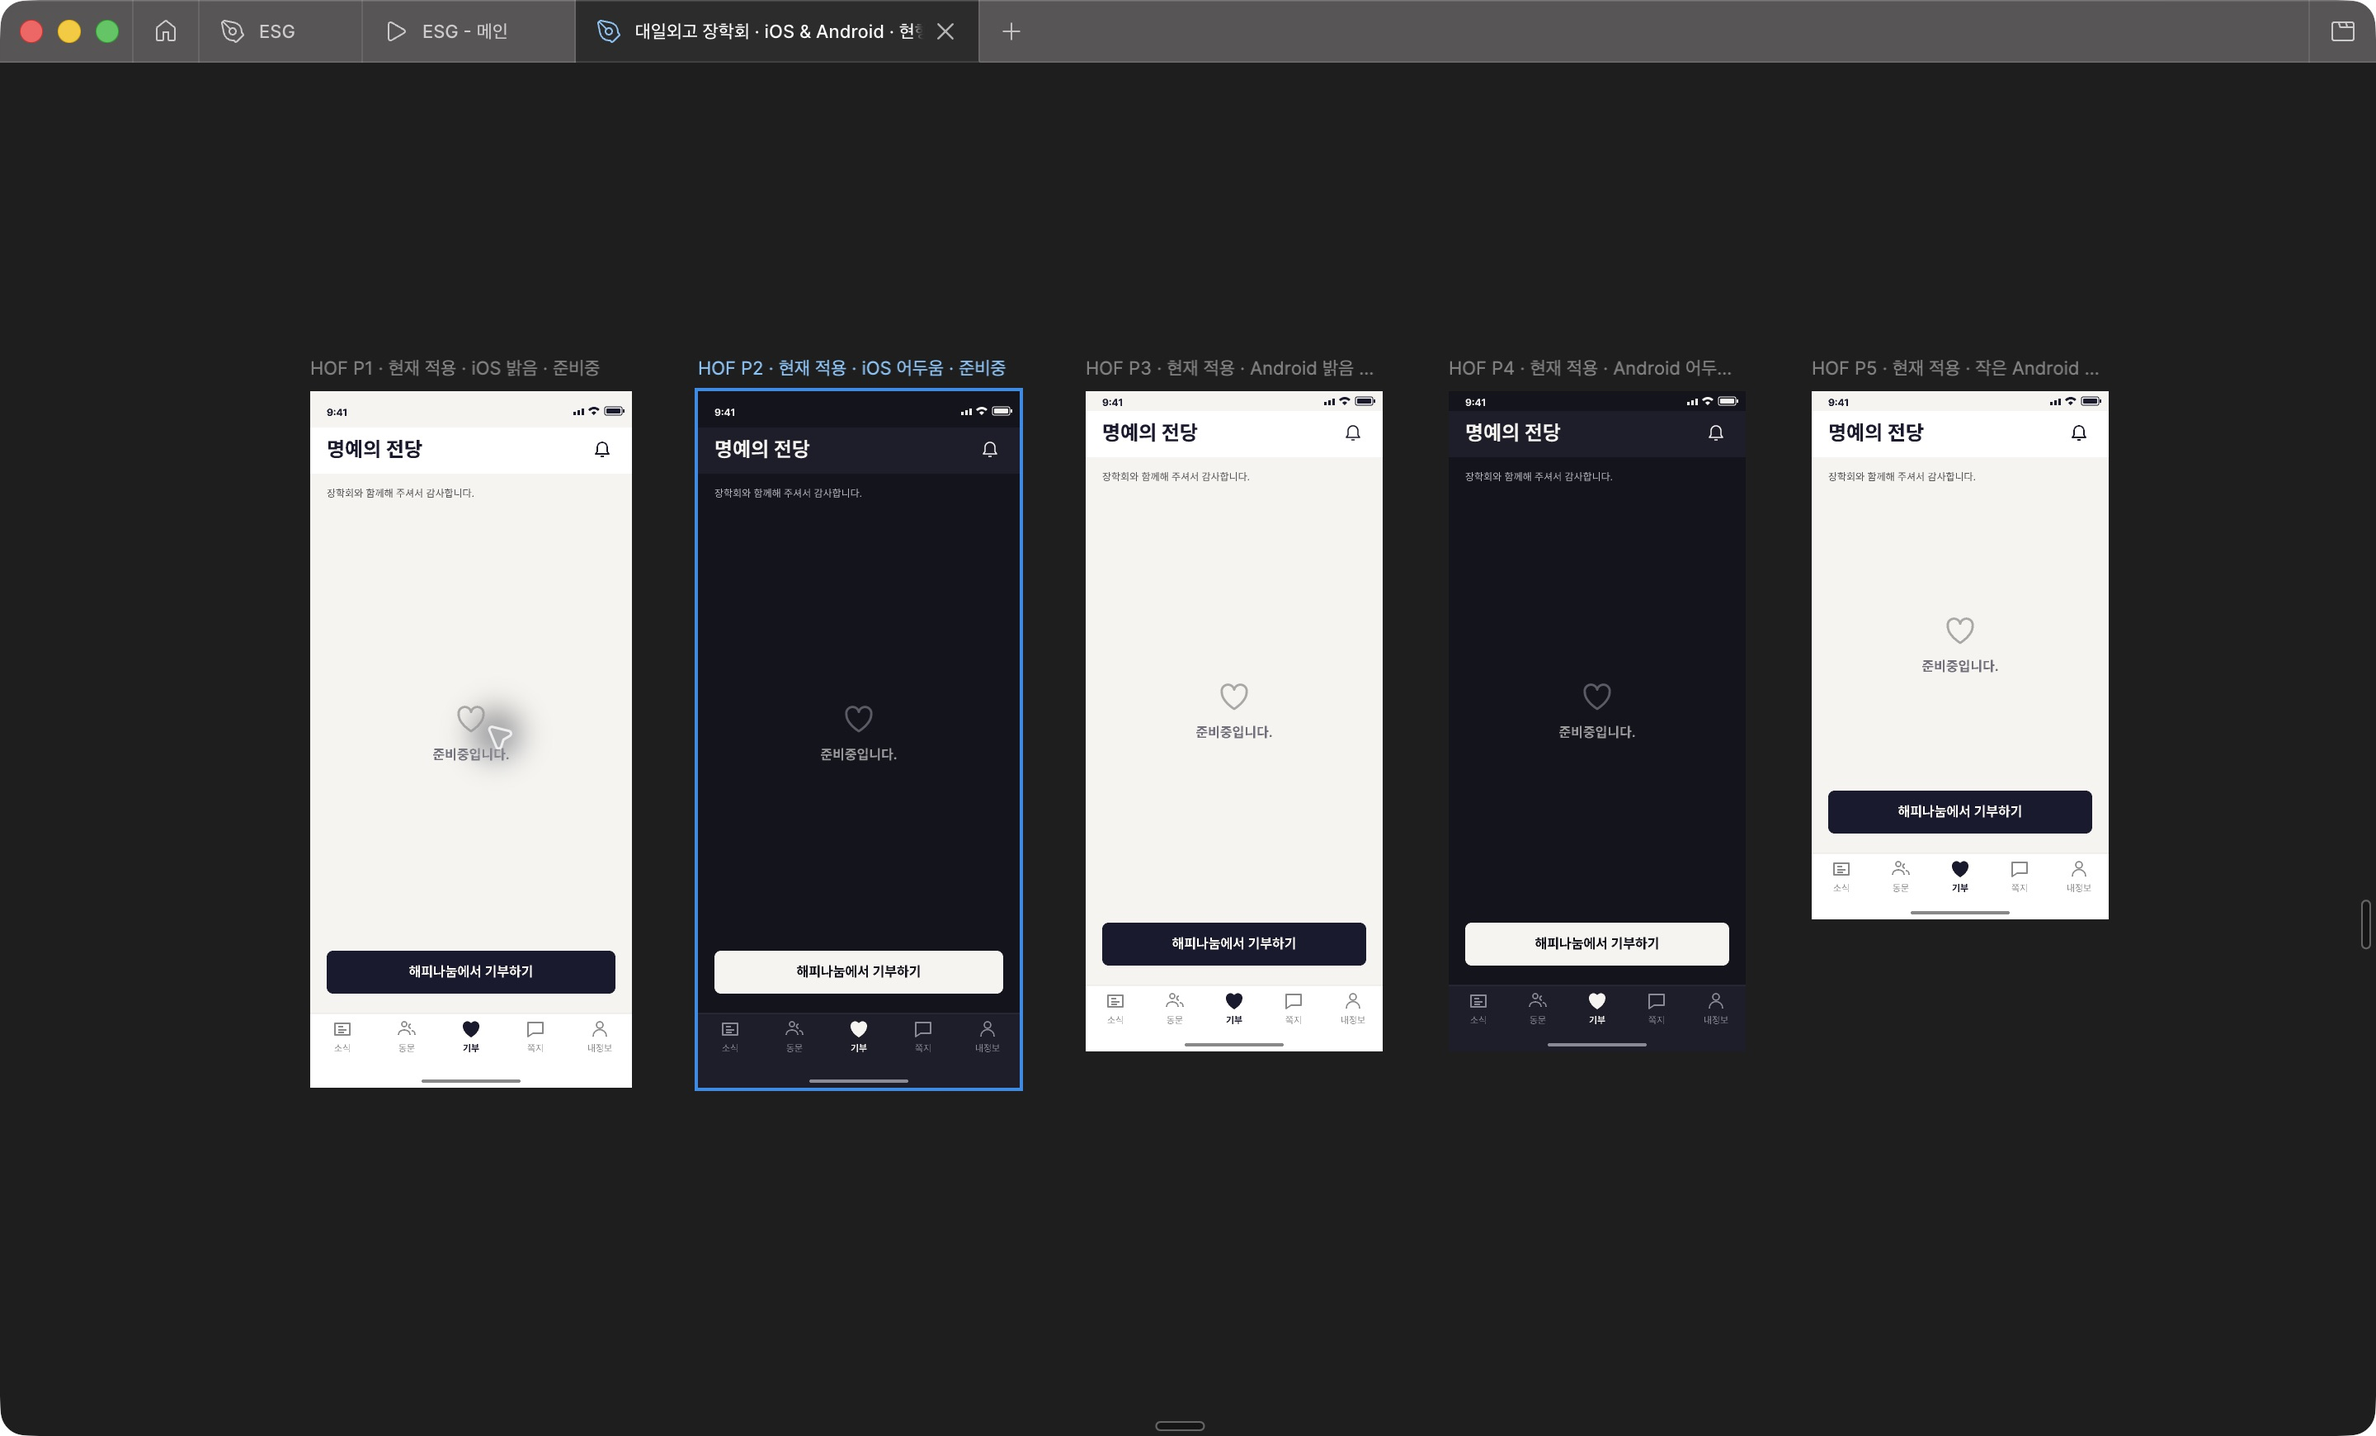
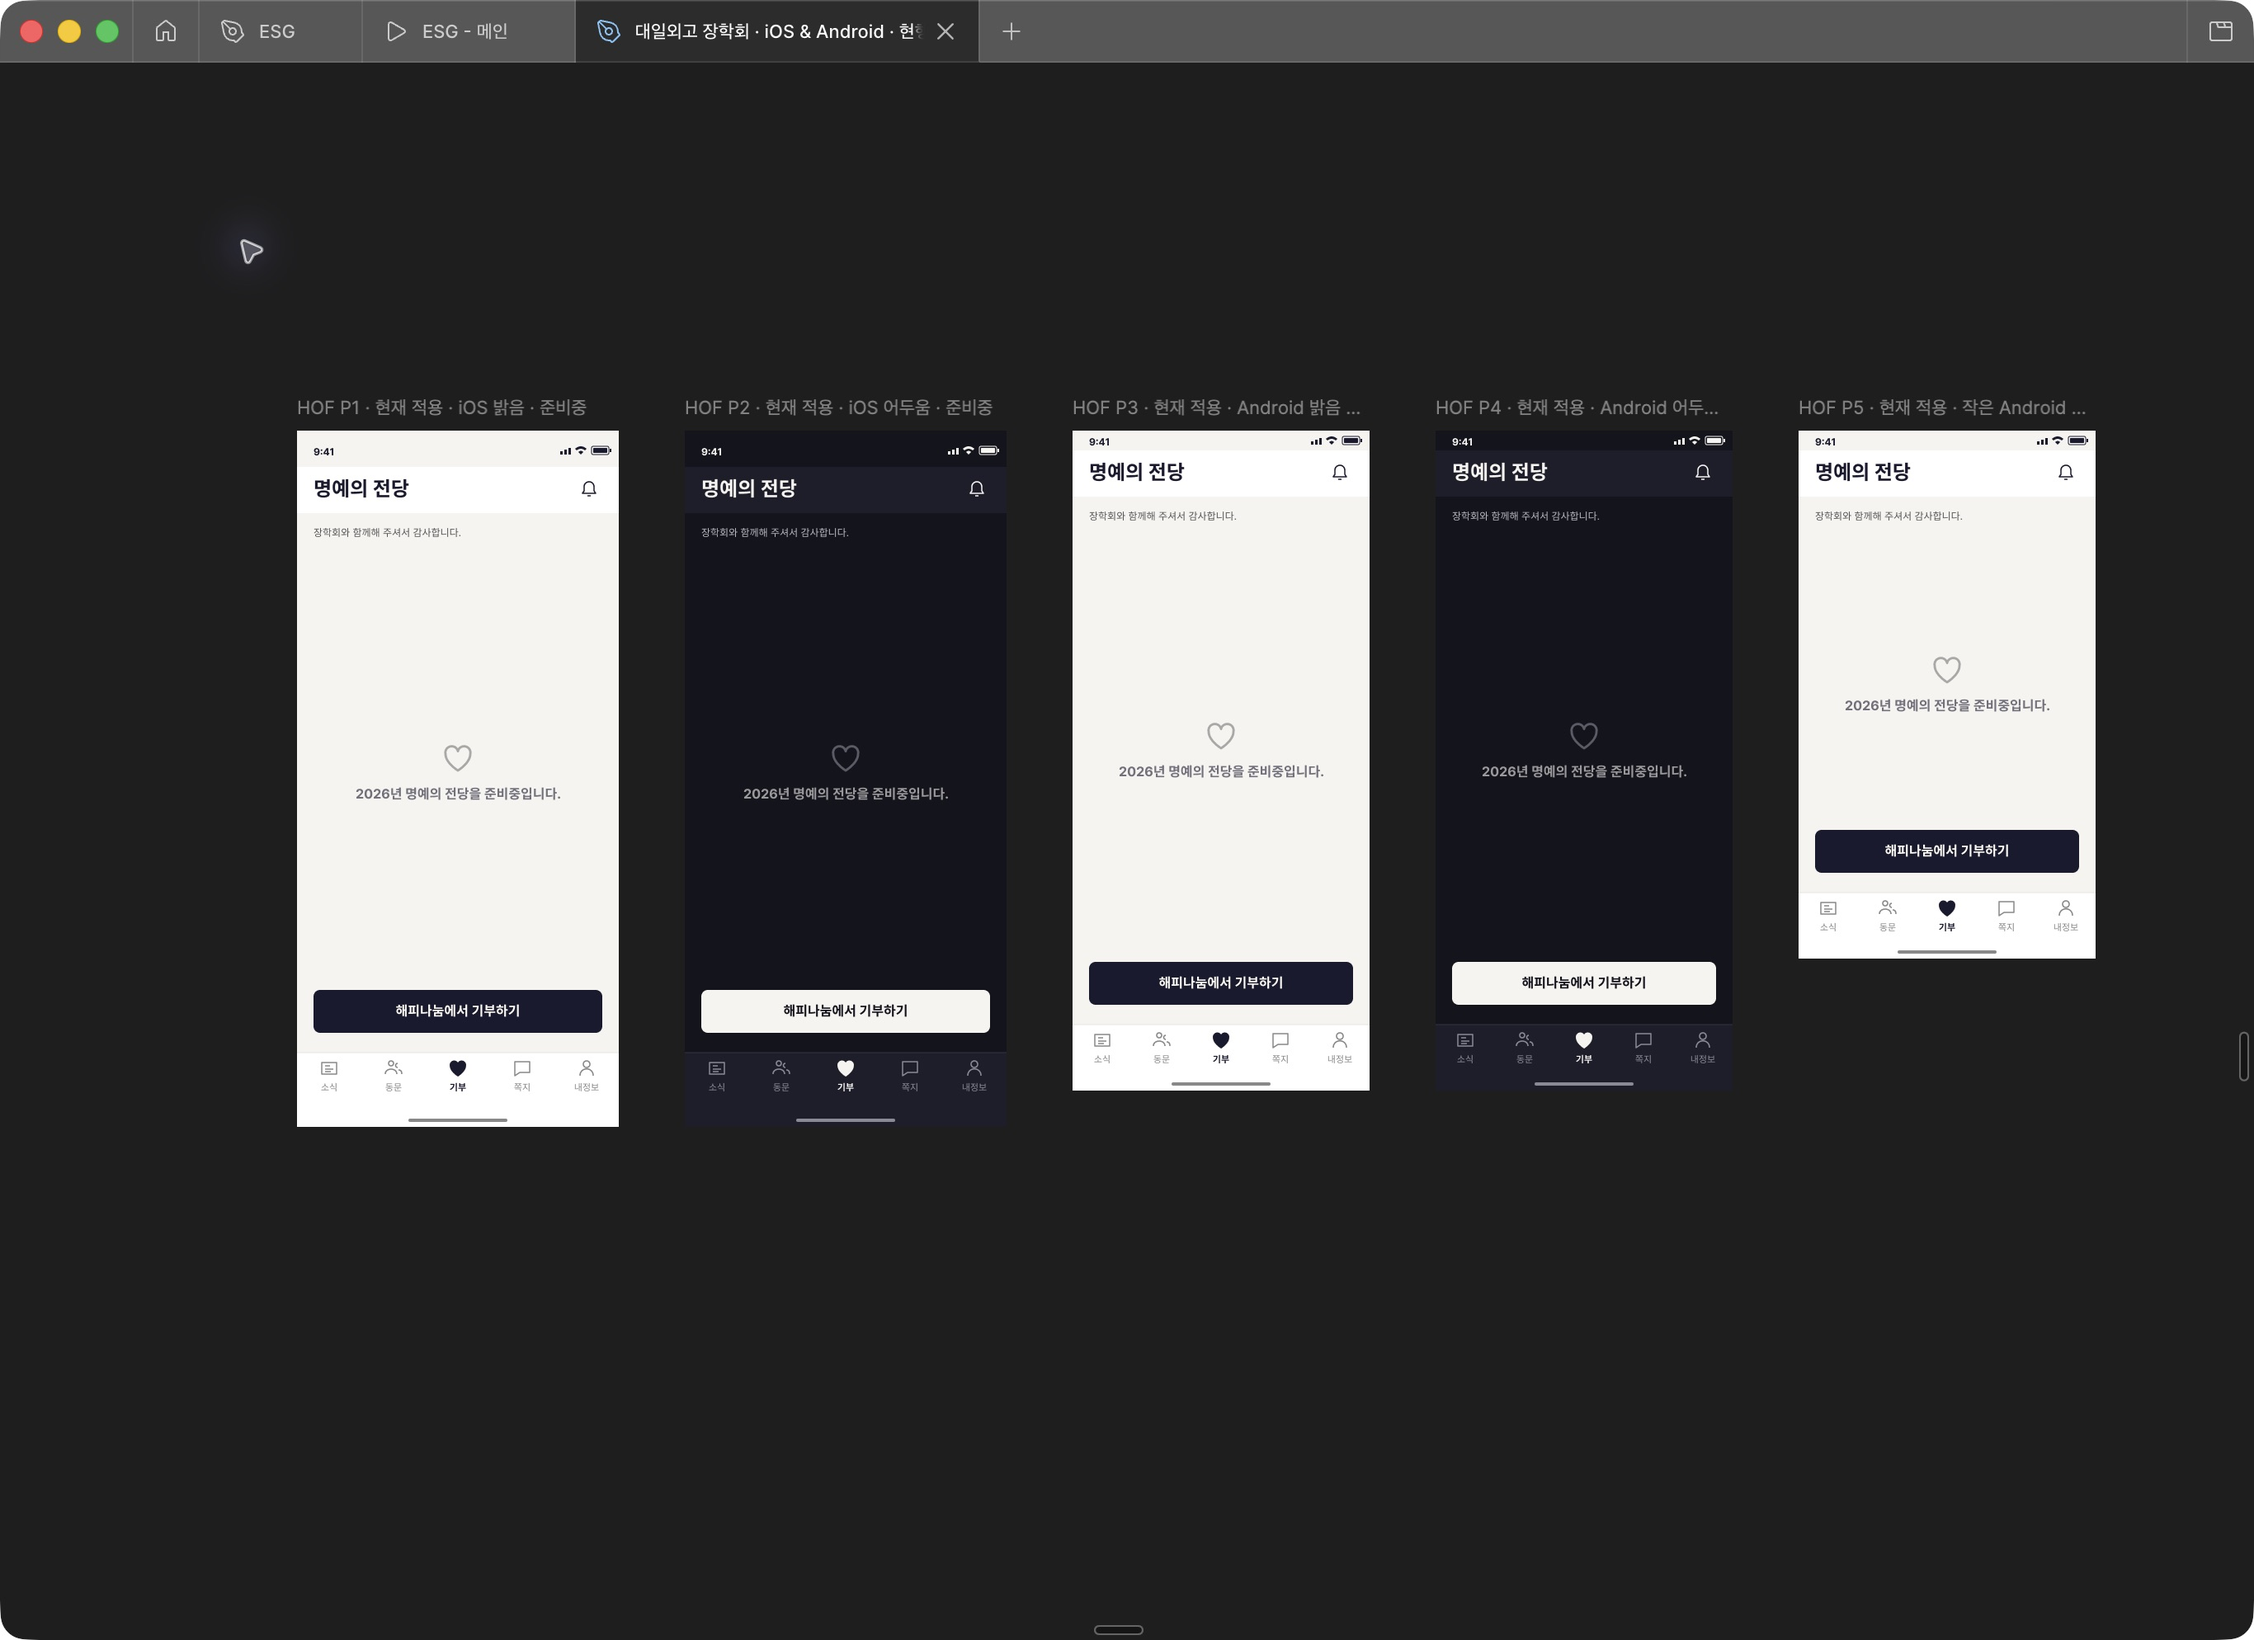
design(donation): specify 2026 notice and restrained heartbeat

Changed region(s): [[0.1245, 0.2483, 0.9334, 0.7759], [0.0, 0.0, 1.0, 0.0621], [0.9956, 0.6207, 1.0, 0.6517]]

diff --git a/design-system/platform/ios/DesignTokens.swift b/design-system/platform/ios/DesignTokens.swift
@@ -413,6 +413,8 @@ public enum DSLayout {
   public static let feedPostCardRadius: CGFloat = 18
   public static let feedPostDetailSectionSpacing: CGFloat = 10
   public static let feedPostDetailSpacing: CGFloat = 16
+  public static let hallHeartbeatFirstAmplitude: CGFloat = 0.06
+  public static let hallHeartbeatSecondAmplitude: CGFloat = 0.035
   public static let messageBubbleMaxWidthRatio: CGFloat = 0.76
   public static let navigationMotionEasingX1: CGFloat = 0.25
   public static let navigationMotionEasingX2: CGFloat = 0.3

diff --git a/design-system/platform/android/DesignTokens.kt b/design-system/platform/android/DesignTokens.kt
@@ -349,6 +349,8 @@ object DesignTokens {
         val feedPostCardRadius = 18.dp
         val feedPostDetailSectionSpacing = 10.dp
         val feedPostDetailSpacing = 16.dp
+        val hallHeartbeatFirstAmplitude = 0.06f
+        val hallHeartbeatSecondAmplitude = 0.035f
         val messageBubbleMaxWidthRatio = 0.76f
         val navigationMotionEasingX1 = 0.25f
         val navigationMotionEasingX2 = 0.3f

diff --git a/design-system/platform/web/design-tokens.css b/design-system/platform/web/design-tokens.css
@@ -260,6 +260,8 @@
   --layout-feed-post-card-radius: 18px;
   --layout-feed-post-detail-section-spacing: 10px;
   --layout-feed-post-detail-spacing: 16px;
+  --layout-hall-heartbeat-first-amplitude: 0.06;
+  --layout-hall-heartbeat-second-amplitude: 0.035;
   --layout-message-bubble-max-width-ratio: 0.76;
   --layout-navigation-motion-easing-x1: 0.25;
   --layout-navigation-motion-easing-x2: 0.3;

diff --git a/design-system/verification/hall-of-fame/README.md b/design-system/verification/hall-of-fame/README.md
@@ -2,10 +2,14 @@
 
 실제 후원자 데이터가 준비될 때까지 두 네이티브 앱은 공통 스타일의 준비중 상태를 표시한다.
 준비중 아이콘과 문구는 공통 mutedIcon 불투명도 60%로 흐리게 표시한다.
+안내 문구는 `2026년 명예의 전당을 준비중입니다.`이다.
+하트만 2.45초 주기로 6%, 3.5%의 두 번 박동을 반복한다. 문구와 CTA는 움직이지 않는다.
+동작 줄이기/애니메이션 제거 설정 또는 앱 비활성 상태에서는 박동을 멈춘다.
 기부 탭 이름, 알림, 기존 해피나눔 CTA를 유지한다. 버튼은 내비게이션 위에 고정한다.
 
 - [Figma · 현재 적용 시안 5종](https://www.figma.com/design/6XaX36E3p7uGWo0WMNYzX1/?node-id=79-8950)
 - [Figma 화면 비교](figma-preparing.png)
+- [iOS 실제 하트 박동 영상](ios-heartbeat.mp4): 실제 시뮬레이터 캡처. 하트의 크기 변화만 적용됐으며 문구는 고정돼 있다.
 - [iOS 밝음](ios-light.png), [iOS 어두움](ios-dark.png): Codex iPhone 15, iOS 26.0, visual fixture의 기부 탭.
 - [Android 밝음](android-light-360x640-layout-before-dimming.png), [Android 어두움](android-dark-360x640-layout-before-dimming.png): API 36, 360×640, 실제 공통 내비게이션을 사용한 Compose 검증 호스트의 dimming 이전 배치 검증 캡처. 최종 불투명도는 Figma와 iOS 캡처를 참고한다.
 
@@ -16,6 +20,9 @@ Figma의 P1–P5는 현재 프로젝트 토큰을 따른다: 공통 배경, 24pt
 검증:
 
 - iOS Simulator Debug `xcodebuild build`: 통과.
+- 최종 2026 안내 문구와 하트 박동을 포함한 iOS/Android Debug 빌드: 통과.
+- iOS 밝음/어두움 최종 캡처: 긴 문구와 CTA가 잘리거나 하단 탭에 겹치지 않음을 확인.
+- 실제 iOS 박동 영상의 157개 프레임에서 하트 픽셀 너비 38–41 변화 확인.
 - iOS 기부 상태/UX 관련 단위 테스트: 8개 통과.
 - Android `:app:assembleDebug`: 통과.
 - Android 기부·내비게이션 단위 테스트: 통과.
@@ -26,3 +33,6 @@ Figma의 P1–P5는 현재 프로젝트 토큰을 따른다: 공통 배경, 24pt
   준비중 화면은 위의 별도 시뮬레이터 캡처로 검수했다.
 
 기부 결제를 진행하지 않았으며, 명예의 전당 순환 목록이나 후원자 데이터는 활성화하지 않았다.
+
+Figma 편집 화면에 연결 복구 대기 안내가 남아 있어 클라우드 동기화 완료를 주장하지 않는다.
+위 비교 캡처는 데스크톱의 최신 편집 상태다.

diff --git a/design-system/contracts/COMPONENT_CONTRACTS.md b/design-system/contracts/COMPONENT_CONTRACTS.md
@@ -1144,7 +1144,8 @@ Implementation evidence:
 Rules:
 
 - `Keep the navigation tab label 기부 and use 명예의 전당 as the single screen header.`
-- `Show 장학회와 함께해 주셔서 감사합니다. below the shared header and a calm heart icon with 준비중입니다. centered in the available body. Dim the preparing icon and label together with the shared mutedIcon opacity token (0.6), while the gratitude and CTA retain their standard styles.`
+- `Show 장학회와 함께해 주셔서 감사합니다. below the shared header and a calm heart icon with 2026년 명예의 전당을 준비중입니다. centered in the available body. Dim the preparing icon and label together with the shared mutedIcon opacity token (0.6), while the gratitude and CTA retain their standard styles.`
+- `Animate only the decorative heart with a 2.45-second double beat: 6% then 3.5% scale increase using hallHeartbeat amplitude tokens and the shared quick/base/slow durations. Keep the title stationary. Stop when the app is inactive or Reduce Motion / remove animations is enabled; other calm states remain static by default.`
 - `Use the shared app background, header, calm-state and button components in light and dark appearance. Do not add a separate Hall surface, decorative card, duplicate title or helper text below the CTA.`
 - `Remove 장학회 전체 기부 현황 and 내 나무 from the active tab. Do not load donation summary or personal donation data for this preparing screen; no fake donor records or auto-scroll are shown.`
 - `Keep 해피나눔에서 기부하기 fixed above the existing bottom navigation (or at the bottom of the readable column when the navigation rail is used). The CTA stays available independently of Hall data.`
